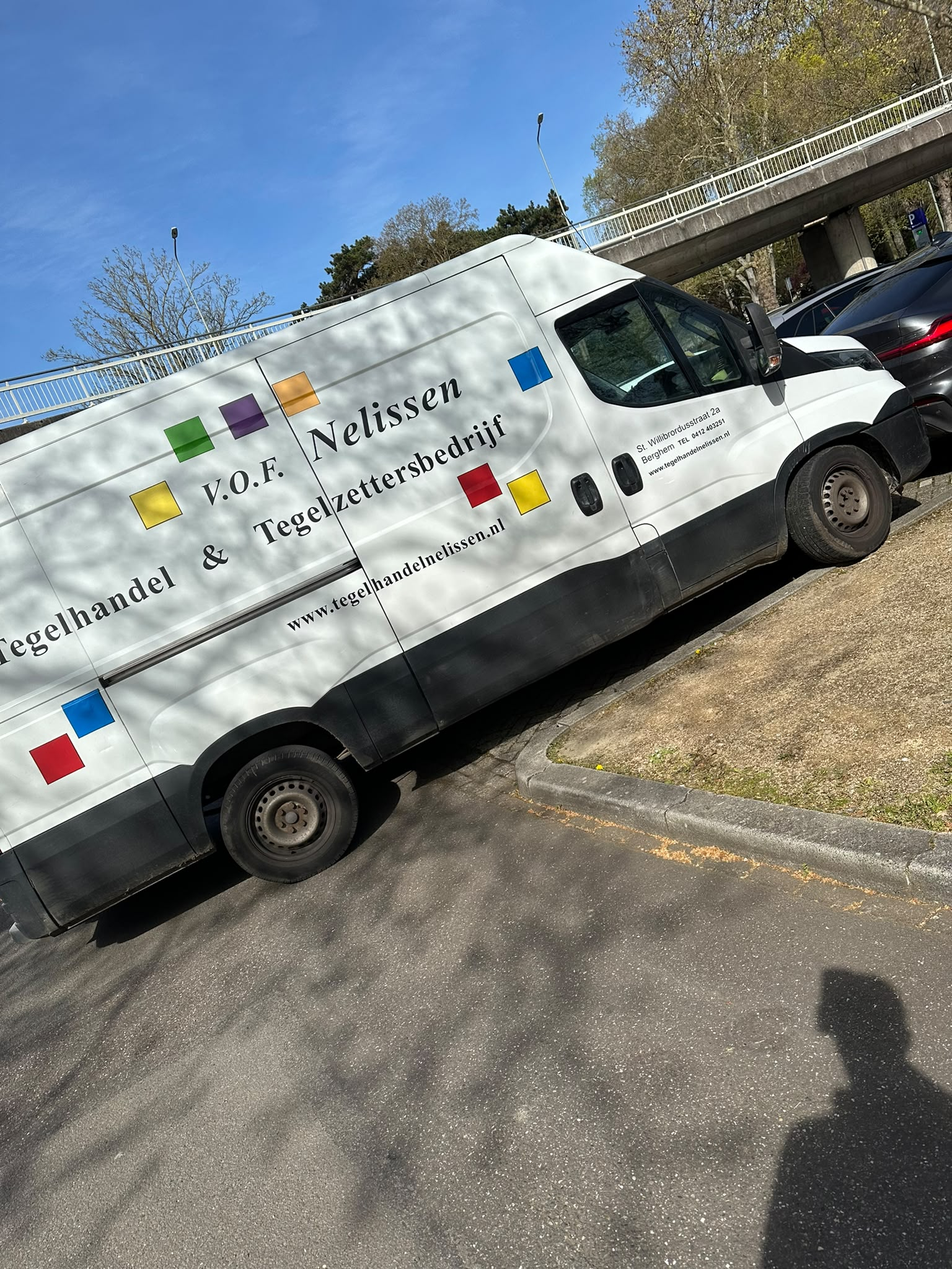
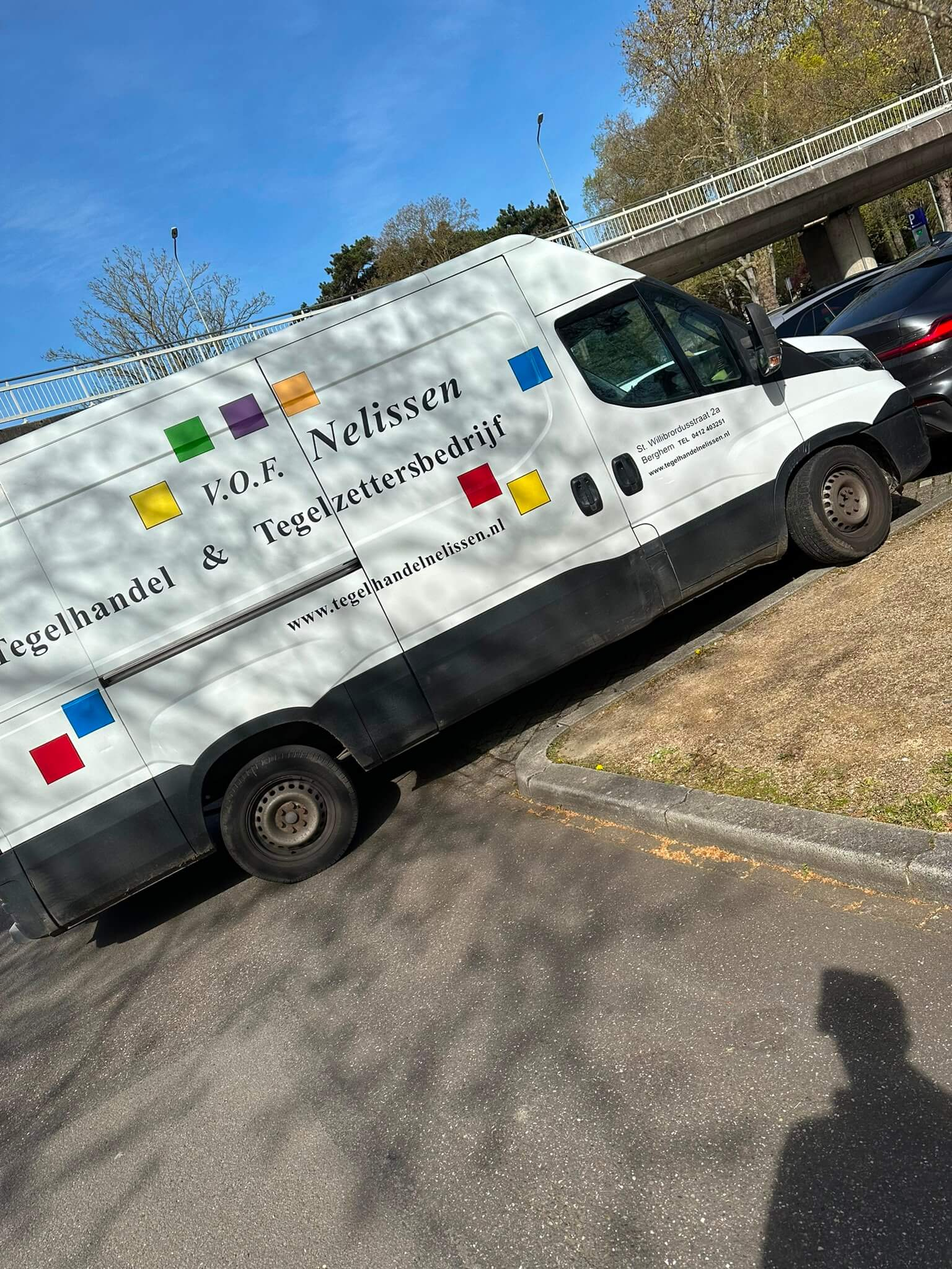
fix(over-ons): load the LCP photo eagerly
Next flagged this one at runtime. The section only renders on /over-ons, where
the header above it is text on a flat colour, so on a desktop the bedrijfsbus
photo is both above the fold and the LCP element - and next/image's default
lazy loading means it is not discovered until after layout.

loading=eager rather than priority: priority also emits a preload link, and on
a phone the grid is single-column, so the photo sits below a title, three
paragraphs and a checklist. Preloading it there would pull a large image ahead
of content the visitor can actually see.

Also carries the recompressed source, 662KB to 445KB at the same 1536x2048.

diff --git a/components/sections/OverOns.tsx b/components/sections/OverOns.tsx
@@ -52,11 +52,25 @@ export function OverOns({ dict }: { dict: Dictionary["overOns"] }) {
           <div className="relative">
             <div className="absolute -top-4 -left-4 w-full h-full" style={{ background: BRAND.yellow, zIndex: 0, borderRadius: 2 }} />
             <div className="relative z-10 overflow-hidden h-[420px]" style={{ borderRadius: 2 }}>
+              {/* Eager, not lazy. This section only renders on /over-ons, where
+                  the page header above it is plain text on a flat colour — so
+                  on a desktop this photo is both above the fold and the LCP
+                  element, and next/image's default lazy loading means it is not
+                  discovered until after layout. Next flags exactly this case.
+
+                  `loading="eager"` rather than `priority`: priority also emits a
+                  preload link, and on a phone the grid is single-column, so the
+                  photo sits well below a title, three paragraphs and a
+                  checklist. Preloading it there would pull a large image to the
+                  front of the queue ahead of content the visitor can actually
+                  see. Eager fixes the desktop discovery delay without taking
+                  that trade. */}
               <Image
                 src="/images/bedrijfsbus.jpeg"
                 alt={dict.imageAlt}
                 fill
                 quality={60}
+                loading="eager"
                 sizes="(max-width: 768px) 100vw, 50vw"
                 className="object-cover"
               />
